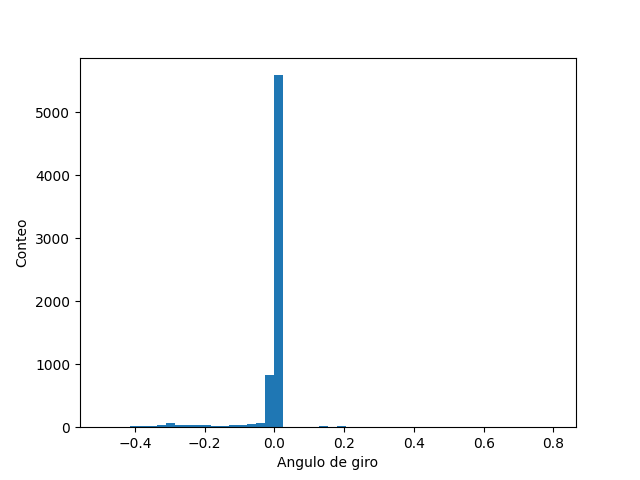
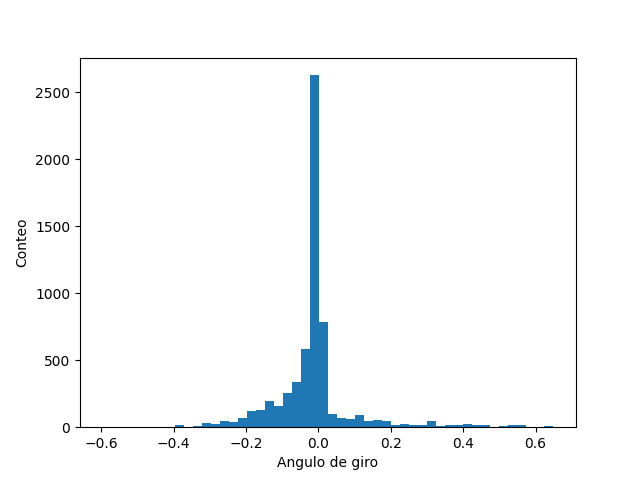
graficos añadidos

diff --git a/docs/_posts/2024-01-25-week-3.md b/docs/_posts/2024-01-25-week-3.md
@@ -12,7 +12,7 @@ tags:
 
 ### Exploracion de los datos
 
-El dataset generado consta de un conjunto de 7,080 imágenes con sus respectivas etiquetas. Al representar los valores correspondientes al ángulo de giro (steer) en un histograma con 50 intervalos, se observa una distribución altamente desequilibrada.
+El dataset generado consta de un conjunto de 15.700 imágenes con sus respectivas etiquetas. Al representar los valores correspondientes al ángulo de giro (steer) en un histograma con 50 intervalos, se observa una distribución altamente desequilibrada.
 
 ```python
 histogram = plt.hist(df['steer_values'], bins=50)
@@ -26,17 +26,17 @@ plt.show(histogram)
   <figcaption>histograma-sin-balanceo</figcaption>
 </figure>
 
-Como se aprecia en la imagen, la cantidad de valores cercanos al cero en el ángulo de giro supera los 5000, mientras que en los demás intervalos no se alcanza a superar los 100 valores. Esto indica que en la simulación predominó la conducción en línea recta. Si el modelo se entrena con estos datos, es probable que generalice este comportamiento y solo pueda predecir una dirección cero para todas las salidas, por lo tanto, no aprendería el mapeo correcto de la dirección de las imágenes.
+Como se aprecia en la imagen, la cantidad de valores cercanos al cero en el ángulo de giro supera los 10000 muestras, mientras que en los demás intervalos no se alcanza a superar los 100 valores. Esto indica que en la simulación predominó la conducción en línea recta. Si el modelo se entrena con estos datos, es probable que generalice este comportamiento y solo pueda predecir una dirección cero para todas las salidas, por lo tanto, no aprendería el mapeo correcto de la dirección de las imágenes.
 
 <figure class="half">
-  <img src="{{ site.url }}{{ site.baseurl }}/assets/images/week3/docs/assets/images/week3/tabla_conteo_steer_values.png" alt="" style="width:100%">
+  <img src="{{ site.url }}{{ site.baseurl }}/assets/images/week3/tabla_conteo_steer_values.png" alt="" style="width:75%">
   <figcaption>tabla_intervalos</figcaption>
 </figure>
 
 Para equilibrar el conjunto de datos, se empleó la técnica de submuestreo. Para ello, se dividió el conjunto de datos en 50 intervalos y se tomó el valor medio.
 
 ```python
-samples = 400
+samples = 49
 bin_width = 0.04
 
 resampled = pd.concat([
@@ -45,9 +45,9 @@ resampled = pd.concat([
     for part_df in [df[(df['steer_values'] >= small_r) & (df['steer_values'] < small_r + bin_width)]]
 ])
 ```
-Este proceso genera un conjunto de datos más equilibrado.
+El resultado obtenido parece indicar una mejora con respecto a los datos originales. No obstante, es crucial entrenar el modelo para evaluar su rendimiento real. Existe la posibilidad de que aún presente sesgos en su desempeño, ya que podría lograr una alta precisión en una clase mayoritaria mientras que no proporciona información útil en las clases minoritarias.
 
 <figure class="half">
-  <img src="{{ site.url }}{{ site.baseurl }}/assets/images/week3/docs/assets/images/week3/docs/assets/images/week3/histograma_steer_balanceado.png" alt="" style="width:100%">
+  <img src="{{ site.url }}{{ site.baseurl }}/assets/images/week3/imbalance_vs_balance.png" alt="" style="width:100%">
   <figcaption>datos-balanceados</figcaption>
 </figure>
